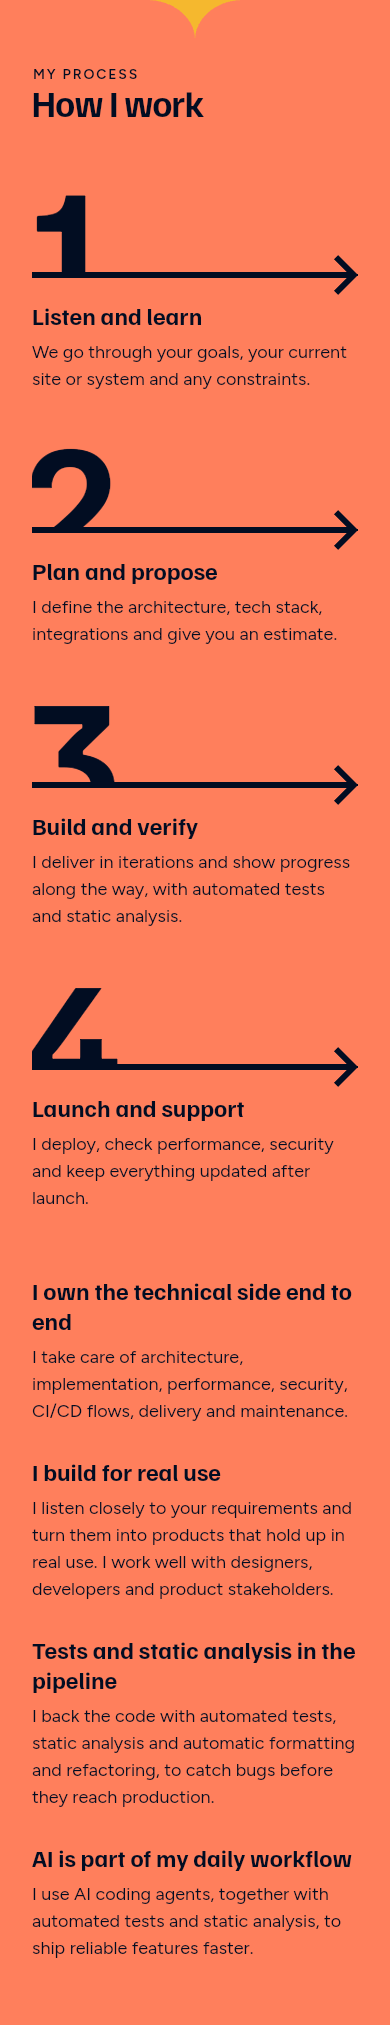
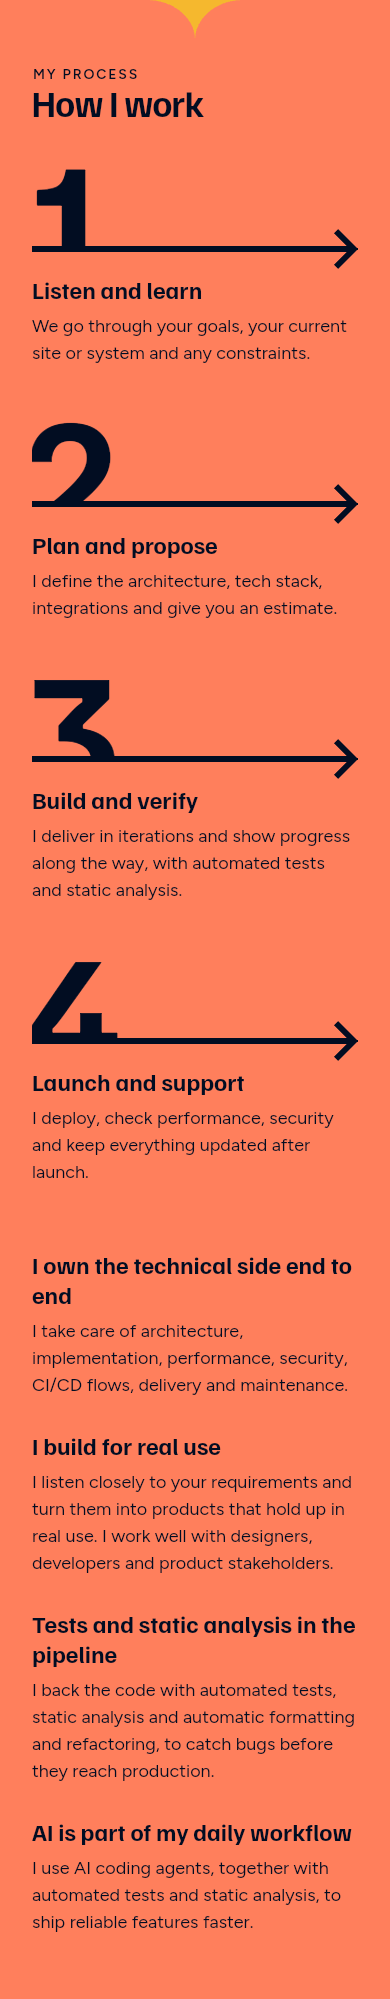
docs: move the how steps closer to the header

Changed region(s): [[0.0615, 0.031, 0.9231, 0.9615], [0.4923, 0.031, 0.5231, 0.062]]

diff --git a/figma-build-guide.md b/figma-build-guide.md
@@ -45,7 +45,7 @@ One quote taken from a recommendation: `quote-big` (36, weight 400), navy, max 8
 Eyebrow, `h2` "What people say about me". Featured quote: navy fill, mint text, `quote-big`, `radius-28`, padding 48. Under it four white cards (two columns, gap 24, `radius-28`, padding 32): quote first, then the author pinned to the bottom (50px round photo centred vertically against the name and role, name `lead` at weight 600 with the 12px `icon-external-link` linking to LinkedIn, role 14px, 8px between photo and text). Bottom right: link "Read them all on LinkedIn" with the same icon (`button` weight 600, navy).
 
 ## How I work (coral block)
-`V2 / how-block`. `section-header` ("My process", "How I work"), 48 below it four `step`s: xl one row of 258 (gap 40), lg one row of 210 (gap 40), md 2 x 2 of 336 (gap 32 across, 40 down), base stacked (gap 32). Steps are "Listen and learn", "Plan and propose", "Build and verify", "Launch and support", with the number in the step, not the title. Then, 64 below, at xl and lg the workshop engraving (304 x 464, `workshop image`, contained, vertically centred) and, 48 to its right, the four `principle`s in one column (gap 32, at most 666 wide; 608 at lg), vertically centred. The four principles are: I own the technical side end to end; I build for real use; Tests and static analysis in the pipeline; AI is part of my daily workflow (copy in the HowBlock README). The step number is `font.size.step-number` (176). The animation is described in the HowBlock README and the board `spec / how step animation`.
+`V2 / how-block`. `section-header` ("My process", "How I work"), 22 below it four `step`s (the digits read 48 below the header): xl one row of 258 (gap 40), lg one row of 210 (gap 40), md 2 x 2 of 336 (gap 32 across, 40 down), base stacked (gap 32). Steps are "Listen and learn", "Plan and propose", "Build and verify", "Launch and support", with the number in the step, not the title. Then, 64 below, at xl and lg the workshop engraving (304 x 464, `workshop image`, contained, vertically centred) and, 48 to its right, the four `principle`s in one column (gap 32, at most 666 wide; 608 at lg), vertically centred. The four principles are: I own the technical side end to end; I build for real use; Tests and static analysis in the pipeline; AI is part of my daily workflow (copy in the HowBlock README). The step number is `font.size.step-number` (176). The animation is described in the HowBlock README and the board `spec / how step animation`.
 
 ## Experience (mint block)
 Eyebrow "Experience", `h2` "25+ years building for the web". Rows drawn as a git log (see Job row): continuous 2px line, nodes and ticks aligned to the date pill centre, date column 176px (date pills fill it on purpose). Timeular row: "Co-owned the company website, payments infrastructure and services integration in a 2-person engineering team."
@@ -67,7 +67,7 @@ Same blocks in the same order, one column, built on `Home V2 / base 390`. Side p
 - **Facts:** two columns of 151, gap 24 across and 32 down. Items have auto height, never a fixed one. 501 tall.
 - **Cards:** services and recommendations in a single column at full width, gap 24, card padding 24 on recommendation cards (no author photo); cards grow to fit their text. Chips wrap. Work: two stacked featured cards, four primary and three secondary cards in one column of 326, gap 24 (4624 tall).
 - **Quote block:** decorative marks 128 wide in the corners, text left-aligned; author and role on separate lines (no leading dot).
-- **How I work:** four steps stacked (gap 32), then the four principles stacked at full width 326 (gap 32); no workshop image. 2025 tall.
+- **How I work:** four steps stacked (gap 32), then the four principles stacked at full width 326 (gap 32); no workshop image. 1999 tall.
 - **Experience:** the git log line stays on the left (32 wide); the date pill sits above the title and text. Each row is as tall as its content, so spine and tick follow it.
 - **Stack:** groups stacked, chips wrap.
 - **Contact:** title (h2 mobile) and address (mail mobile) stacked, buttons stacked at full width, text below. No background engraving on phones.
@@ -81,7 +81,7 @@ Same blocks in the same order, built on `Home V2 / md 768` (open menu: the `menu
 - **Facts:** two columns of 340, gap 24 across and 32 down. Items have auto height, never a fixed one. 388 tall.
 - **Cards:** two columns of 340 (gap 24) for services (rows 206, 206 and 188 high) and recommendations. Work: stacked featured cards, four primary cards in two columns of 340 and three secondary cards in two columns (2 + 1); 2818 tall. Cards in a row share the height of the tallest, and the author line stays pinned to the bottom of recommendation cards. No author photo on tablet.
 - **Quote block:** decorative marks 192 wide in the corners, 40px from the side (same as desktop), text 30 light in a 640px column centred in the block.
-- **How I work:** the steps in a 2 x 2 grid (336 each, gap 32 across, 40 down), then the four principles in one centred column (666), no workshop image. 1318 tall.
+- **How I work:** the steps in a 2 x 2 grid (336 each, gap 32 across, 40 down), then the four principles in one centred column (666), no workshop image. 1292 tall.
 - **Experience:** git log as on desktop with the 176px date column, text column 432.
 - **Stack:** two columns of 340.
 - **Contact:** title (h2 tablet) and address (mail tablet) stacked, buttons side by side. The title is 496 wide. The background engraving keeps its desktop position, anchored to the right edge of the block (the container is full width here).
@@ -97,7 +97,7 @@ Every block has an `lg` variant, built on `Home V2 / lg 1024`. Container 960, si
 - **Quote block:** md text sizes (quote 30, `quote-big` md), text column 768 centred, quotation marks 224 wide, 40px from the sides and 12px outside the top and bottom edges. 285 tall.
 - **Work:** featured cards in row layouts (heights 277 and 257), primary cards 468 wide, secondary cards in three columns of 304. 2187 tall.
 - **Recommendations:** featured card with md text sizes and padding 32; four cards in two columns of 468 (rows 424 and 316). About 1431 tall.
-- **How I work:** steps in one row of 210 (gap 40); workshop engraving and principles (608 wide) side by side. 1139 tall.
+- **How I work:** steps in one row of 210 (gap 40); workshop engraving and principles (608 wide) side by side. 1113 tall.
 - **Experience:** the xl layout in 960. About 1017 tall.
 - **Stack:** groups in three columns of 293 (gap 40). 847 tall.
 - **Contact:** md title and address sizes (`h2` md 48, `mail` md 48), heading 496 wide, engraving placed as at xl. 469 tall.

diff --git a/components/HowBlock/README.md b/components/HowBlock/README.md
@@ -1,8 +1,8 @@
-Coral block (`surface.how`), padding 80 (64 on phones), with the Section arrow in saffron (from recommendations) on top. Content, top to bottom: `section-header` ("My process", "How I work"); 48 below, four `step`s; 64 below, the workshop engraving and the four `principle`s.
+Coral block (`surface.how`), padding 80 (64 on phones), with the Section arrow in saffron (from recommendations) on top. Content, top to bottom: `section-header` ("My process", "How I work"); 22 below, four `step`s (the digits start about 26 into the step box, so they read 48 below the header); 64 below, the workshop engraving and the four `principle`s.
 
 Steps: xl one row, 258 each, gap 40; lg one row, 210 each, gap 40; md 2 x 2, 336 each, gap 32 across and 40 down; base stacked, gap 32. Copy: 1 Listen and learn, "We go through your goals, your current site or system and any constraints."; 2 Plan and propose, "I define the architecture, tech stack, integrations and give you an estimate."; 3 Build and verify, "I deliver in iterations and show progress along the way, with automated tests and static analysis."; 4 Launch and support, "I deploy, check performance, security and keep everything updated after launch."
 
-Below: at xl and lg the workshop engraving (304 x 464, layer `workshop image`, contained, vertically centred; Fig. 248 "Glaspuster ved Lampen" from Opfindelsernes Bog vol. V, 1880, public domain, see the README Imagery) and, 48 to its right, the four `principle`s in one column (gap 32, each at most 666 wide, `max-w-prose`; 608 at lg), vertically centred. At md no image, the column (666) centred. At base no image, full width 326. The four principles: "I own the technical side end to end" (I take care of architecture, implementation, performance, security, CI/CD flows, delivery and maintenance.); "I build for real use" (I listen closely to your requirements and turn them into products that hold up in real use. I work well with designers, developers and product stakeholders.); "Tests and static analysis in the pipeline" (I back the code with automated tests, static analysis and automatic formatting and refactoring, to catch bugs before they reach production.); "AI is part of my daily workflow" (I use AI coding agents, together with automated tests and static analysis, to ship reliable features faster.). Heights: xl 1094, lg 1139, md 1318, base 2025.
+Below: at xl and lg the workshop engraving (304 x 464, layer `workshop image`, contained, vertically centred; Fig. 248 "Glaspuster ved Lampen" from Opfindelsernes Bog vol. V, 1880, public domain, see the README Imagery) and, 48 to its right, the four `principle`s in one column (gap 32, each at most 666 wide, `max-w-prose`; 608 at lg), vertically centred. At md no image, the column (666) centred. At base no image, full width 326. The four principles: "I own the technical side end to end" (I take care of architecture, implementation, performance, security, CI/CD flows, delivery and maintenance.); "I build for real use" (I listen closely to your requirements and turn them into products that hold up in real use. I work well with designers, developers and product stakeholders.); "Tests and static analysis in the pipeline" (I back the code with automated tests, static analysis and automatic formatting and refactoring, to catch bugs before they reach production.); "AI is part of my daily workflow" (I use AI coding agents, together with automated tests and static analysis, to ship reliable features faster.). Heights: xl 1068, lg 1113, md 1292, base 1999.
 
 The step number is set in `font.size.step-number` (176, tracking `font.tracking.step-number` -7.04).
 
